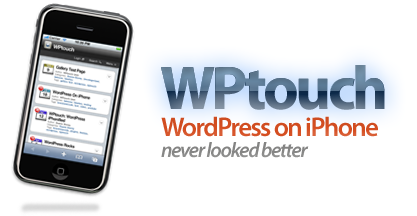
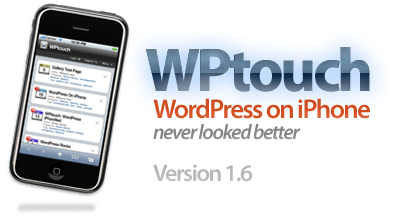
FInal minor Edits
git-svn-id: https://plugins.svn.wordpress.org/wptouch/trunk@79811 b8457f37-d9ea-0310-8a92-e5e31aec5664

diff --git a/admin-css/wptouch-admin.css b/admin-css/wptouch-admin.css
@@ -3,11 +3,12 @@
 /* @group Header */
 
 #wptouch-theme .wptouch-version {
-	font-size: 16px;
-	float: right;
 	color: #ccc;
 	position: relative;
-	bottom: 20px;
+	font: 18px Georgia;
+	float: left;
+	margin-top: 10px;
+	margin-bottom: -30px;
 }
 
 #wptouch-theme #wptouch-title {
@@ -407,12 +408,12 @@
 /* @group Home Page Block */
 
 #wptouch-theme .home-page-block {
-	
 }
 
 #wptouch-theme .home-page-block .wptouch-select-row {
 	padding-top: 10px;
 	padding-bottom: 25px;
+	width: 55%;
 }
 
 #wptouch-theme .home-page-block .wptouch-select-row select {

diff --git a/wptouch.php b/wptouch.php
@@ -475,11 +475,11 @@ return $v['link-color'];
 		  echo('<div class="wrap"><div id="wptouch-theme">');
 		  echo('<div id="wptouchupdated">Your new WPtouch settings were saved.</div>');
 		  echo('<div id="wptouch-title"><img src="' . get_bloginfo('wpurl') . '/wp-content/plugins/wptouch/images/admin-header.png" class="logo" alt="" /></div>');
-	  echo('' . WPtouch('<div class="wptouch-version">','</div>') . '');
+//	  echo('' . WPtouch('<div class="wptouch-version">','</div>') . '');
 	  } else {
 		  echo('<div class="wrap"><div id="wptouch-theme">');
 		  echo('<div id="wptouch-title"><img src="' . get_bloginfo('wpurl') . '/wp-content/plugins/wptouch/images/admin-header.png" class="logo" alt="" /></div>');
-	  echo('' . WPtouch('<div class="wptouch-version">','</div>') . '');
+	//  echo('' . WPtouch('<div class="wptouch-version">','</div>') . '');
 	  }
 ?>
 
@@ -1124,7 +1124,8 @@ The Plugin Section
 	
 			</div>
 		</div>
- 	 <input type="submit" name="submit" value="<?php _e('Save Options', 'submit'); ?>" id="wptouch-button" />
+ 		<?php echo('' . WPtouch('<div class="wptouch-version"> This is ','</div>') . ''); ?>
+ <input type="submit" name="submit" value="<?php _e('Save Options', 'submit'); ?>" id="wptouch-button" />
   </form>
 </div>
 
